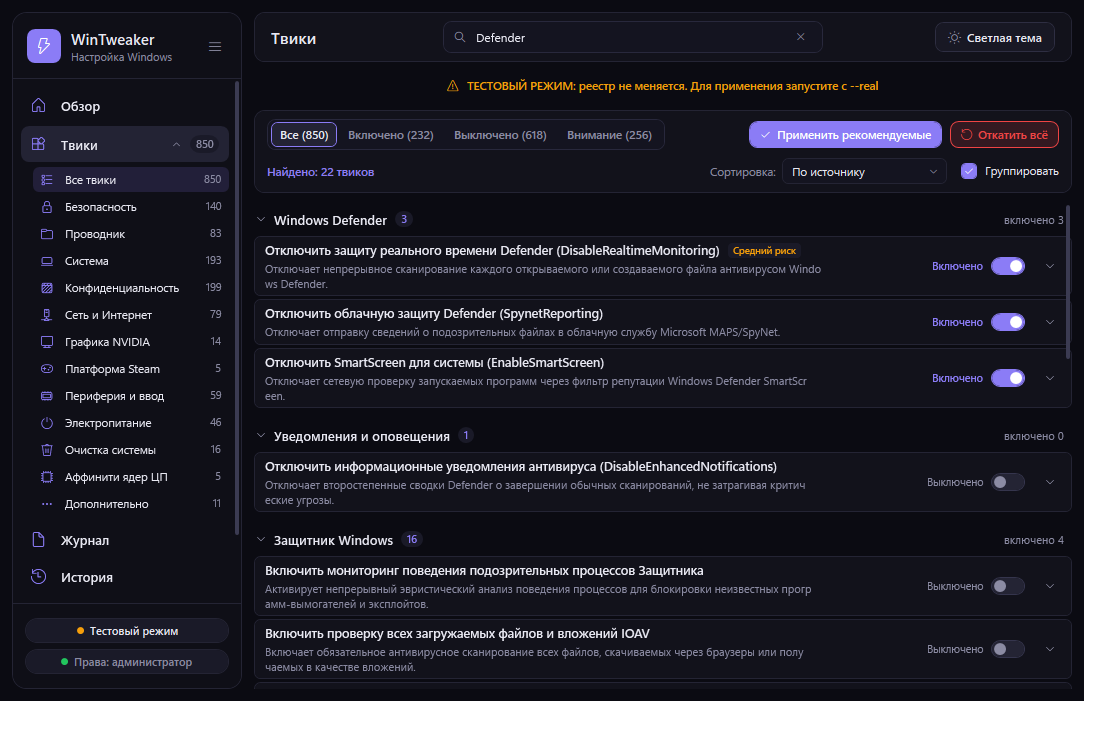
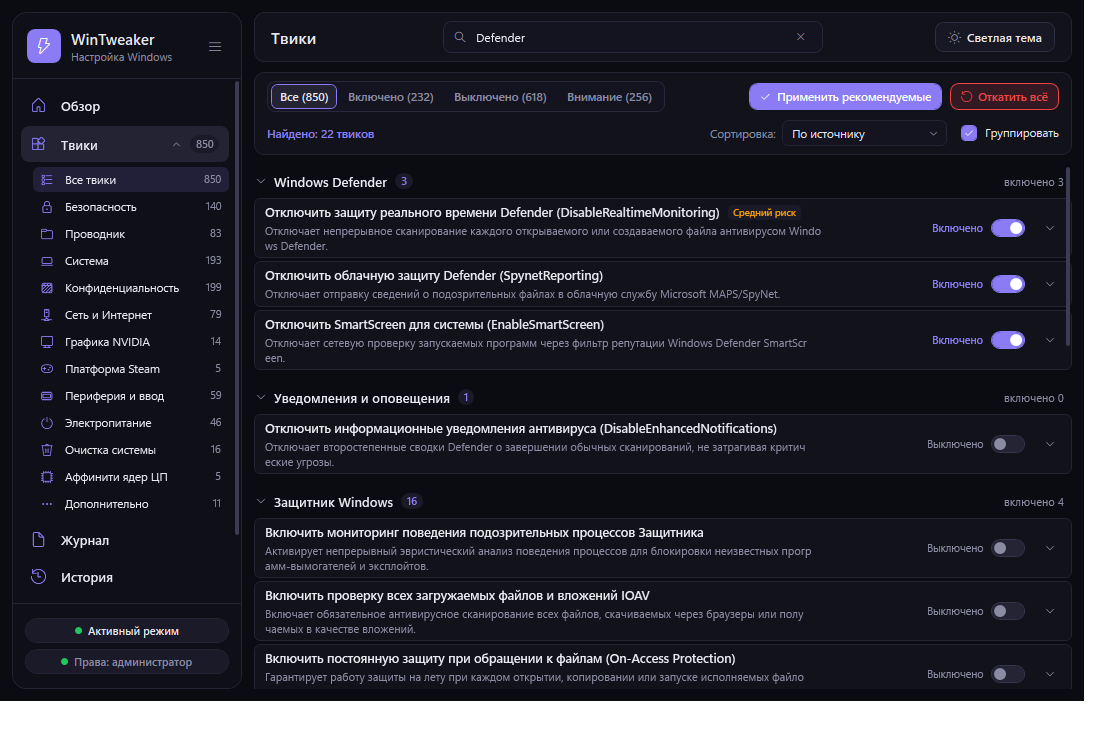
feat: Remove safe test mode by default, enable direct active registry optimization without confirmation popups

Changed region(s): [[0.2164, 0.0932, 0.9891, 0.9324], [0.8345, 0.7149, 0.9582, 0.9324], [0.0618, 0.8392, 0.1545, 0.8703]]

diff --git a/mainwindow.xaml b/mainwindow.xaml
@@ -290,7 +290,7 @@
                                 Margin="0,0,0,6"
                                 HorizontalAlignment="Stretch">
                             <StackPanel Orientation="Horizontal" HorizontalAlignment="Center">
-                                <Ellipse Width="7" Height="7" Fill="{DynamicResource WarningBrush}" VerticalAlignment="Center" Margin="0,0,6,0" />
+                                <Ellipse Width="7" Height="7" Fill="{DynamicResource SuccessBrush}" VerticalAlignment="Center" Margin="0,0,6,0" />
                                 <TextBlock Text="{Binding ModePillText}"
                                            FontSize="11"
                                            FontWeight="SemiBold"
@@ -329,9 +329,7 @@
             <Grid.RowDefinitions>
                 <!-- 0. Top Rounded Header Bar -->
                 <RowDefinition Height="Auto" />
-                <!-- 1. Test Mode Warning Strip (28px full width) -->
-                <RowDefinition Height="Auto" />
-                <!-- 2. Screen Content Area -->
+                <!-- 1. Screen Content Area -->
                 <RowDefinition Height="*" />
             </Grid.RowDefinitions>
 
@@ -475,36 +473,8 @@
                 </Grid>
             </Border>
 
-            <!-- 1. Test-Mode Warning Strip (Thin 28px banner across full width) -->
-            <Border Grid.Row="1"
-                    Height="28"
-                    Background="{DynamicResource TestModeBadgeBg}"
-                    BorderBrush="{DynamicResource TestModeBadgeBorder}"
-                    BorderThickness="1"
-                    CornerRadius="6"
-                    Padding="12,0"
-                    Margin="0,0,0,10"
-                    VerticalAlignment="Center"
-                    Visibility="{Binding IsTestMode, Converter={StaticResource BoolToVis}}">
-                <Grid VerticalAlignment="Center">
-                    <StackPanel Orientation="Horizontal" HorizontalAlignment="Center" VerticalAlignment="Center">
-                        <TextBlock Text="&#xE7BA;"
-                                   FontFamily="Segoe Fluent Icons, Segoe MDL2 Assets"
-                                   FontSize="12"
-                                   Foreground="{DynamicResource WarningBrush}"
-                                   VerticalAlignment="Center"
-                                   Margin="0,0,8,0" />
-                        <TextBlock Text="ТЕСТОВЫЙ РЕЖИМ: реестр не меняется. Для применения запустите с --real"
-                                   FontSize="11.5"
-                                   FontWeight="Medium"
-                                   Foreground="{DynamicResource WarningBrush}"
-                                   VerticalAlignment="Center" />
-                    </StackPanel>
-                </Grid>
-            </Border>
-
-            <!-- 2. Screens -->
-            <Grid Grid.Row="2">
+            <!-- 1. Screens -->
+            <Grid Grid.Row="1">
                 <!-- ==================================================== -->
                 <!-- SCREEN: ОБЗОР (OVERVIEW)                             -->
                 <!-- ==================================================== -->
@@ -676,7 +646,7 @@
                                 <StackPanel Grid.Column="2" Orientation="Horizontal" VerticalAlignment="Center" HorizontalAlignment="Center">
                                     <TextBlock Text="Режим:" FontSize="11.5" Foreground="{DynamicResource TextSecondary}" Margin="0,0,6,0" />
                                     <Border CornerRadius="8" Background="{DynamicResource BadgeBg}" Padding="6,2">
-                                        <TextBlock Text="{Binding EngineModeDisplay}" FontSize="11" FontWeight="SemiBold" Foreground="{DynamicResource WarningBrush}" />
+                                        <TextBlock Text="{Binding EngineModeDisplay}" FontSize="11" FontWeight="SemiBold" Foreground="{DynamicResource SuccessBrush}" />
                                     </Border>
                                 </StackPanel>
 
@@ -1406,7 +1376,7 @@
                         <Border Background="{DynamicResource CardBg}" BorderBrush="{DynamicResource CardBorder}" BorderThickness="1" CornerRadius="12" Padding="16" Margin="0,0,0,12">
                             <StackPanel>
                                 <TextBlock Text="РЕЖИМ РАБОТЫ ДВИЖКА" Style="{StaticResource CardHeaderStyle}" />
-                                <TextBlock Text="Приложение запущено в безопасном тестовом режиме с оверлеем в оперативной памяти. Изменения реестра не затрагивают физическую операционную систему." FontSize="11.5" Foreground="{DynamicResource TextSecondary}" TextWrapping="Wrap" Margin="0,6,0,0" />
+                                <TextBlock Text="Прямой рабочий режим: все выбранные оптимизации применяются непосредственно к конфигурации системы и реестру Windows с возможностью мгновенного отката." FontSize="11.5" Foreground="{DynamicResource TextSecondary}" TextWrapping="Wrap" Margin="0,6,0,0" />
                             </StackPanel>
                         </Border>
                     </StackPanel>

diff --git a/app.xaml.cs b/app.xaml.cs
@@ -84,7 +84,7 @@ namespace WinTweaker
             base.OnStartup(e);
 
             bool isDark = true;
-            bool isReal = false;
+            bool isReal = true;
             string screenshotPath = null;
 
             if (e.Args != null)
@@ -95,32 +95,14 @@ namespace WinTweaker
                     {
                         isDark = false;
                     }
-                    else if (e.Args[i] == "--real" || e.Args[i] == "-real")
+                    else if (e.Args[i] == "--mock" || e.Args[i] == "--test" || e.Args[i] == "-test")
                     {
-                        isReal = true;
+                        isReal = false;
                     }
                     else if (e.Args[i] == "--screenshot" && i + 1 < e.Args.Length)
                     {
                         screenshotPath = e.Args[i + 1];
                     }
-                }
-            }
-
-            // Защитный диалог подтверждения при реальном режиме
-            if (isReal && string.IsNullOrEmpty(screenshotPath))
-            {
-                MessageBoxResult result = MessageBox.Show(
-                    "ВНИМАНИЕ: Вы запускаете WinTweaker в РЕАЛЬНОМ РЕЖИМЕ (--real).\n\n" +
-                    "Все изменения реестра будут применяться непосредственно к вашей системе Windows.\n\n" +
-                    "Вы действительно хотите продолжить запуск в реальном режиме?",
-                    "WinTweaker — Подтверждение реального режима",
-                    MessageBoxButton.YesNo,
-                    MessageBoxImage.Warning);
-
-                if (result != MessageBoxResult.Yes)
-                {
-                    this.Shutdown(0);
-                    return;
                 }
             }
 
@@ -143,7 +125,7 @@ namespace WinTweaker
         {
             try
             {
-                MainWindow window = new MainWindow(false, isDark);
+                MainWindow window = new MainWindow(true, isDark);
                 window.Width = 1100;
                 window.Height = 740;
 

diff --git a/src/viewmodels/mainviewmodel.cs b/src/viewmodels/mainviewmodel.cs
@@ -589,7 +589,7 @@ namespace WinTweaker.ViewModels
 
         public string ModePillText
         {
-            get { return this._isRealMode ? "Реальный режим" : "Тестовый режим"; }
+            get { return this._isRealMode ? "Активный режим" : "Тестовый режим"; }
         }
 
         public string AdminPillText
@@ -599,7 +599,7 @@ namespace WinTweaker.ViewModels
 
         public string BannerText
         {
-            get { return "ТЕСТОВЫЙ РЕЖИМ: реестр не меняется. Для применения запустите с --real"; }
+            get { return ""; }
         }
 
         public bool IsDarkTheme
@@ -779,7 +779,7 @@ namespace WinTweaker.ViewModels
 
         public string EngineModeDisplay
         {
-            get { return this._isRealMode ? "Реальный режим" : "Тестовый режим"; }
+            get { return this._isRealMode ? "Активен" : "Тестовый режим"; }
         }
 
         public string JournalCountDisplay
@@ -884,7 +884,7 @@ namespace WinTweaker.ViewModels
 
         public event Action<bool> ThemeChanged;
 
-        public MainViewModel(bool isRealMode = false, bool isDarkTheme = true)
+        public MainViewModel(bool isRealMode = true, bool isDarkTheme = true)
         {
             this._isRealMode = isRealMode;
             this._isDarkTheme = isDarkTheme;

diff --git a/mainwindow.xaml.cs b/mainwindow.xaml.cs
@@ -19,7 +19,7 @@ namespace WinTweaker
         public DateTime WindowCreatedUtc = DateTime.UtcNow;
         public DateTime ContentRenderedUtc;
 
-        public MainWindow() : this(false, true)
+        public MainWindow() : this(true, true)
         {
         }
 
